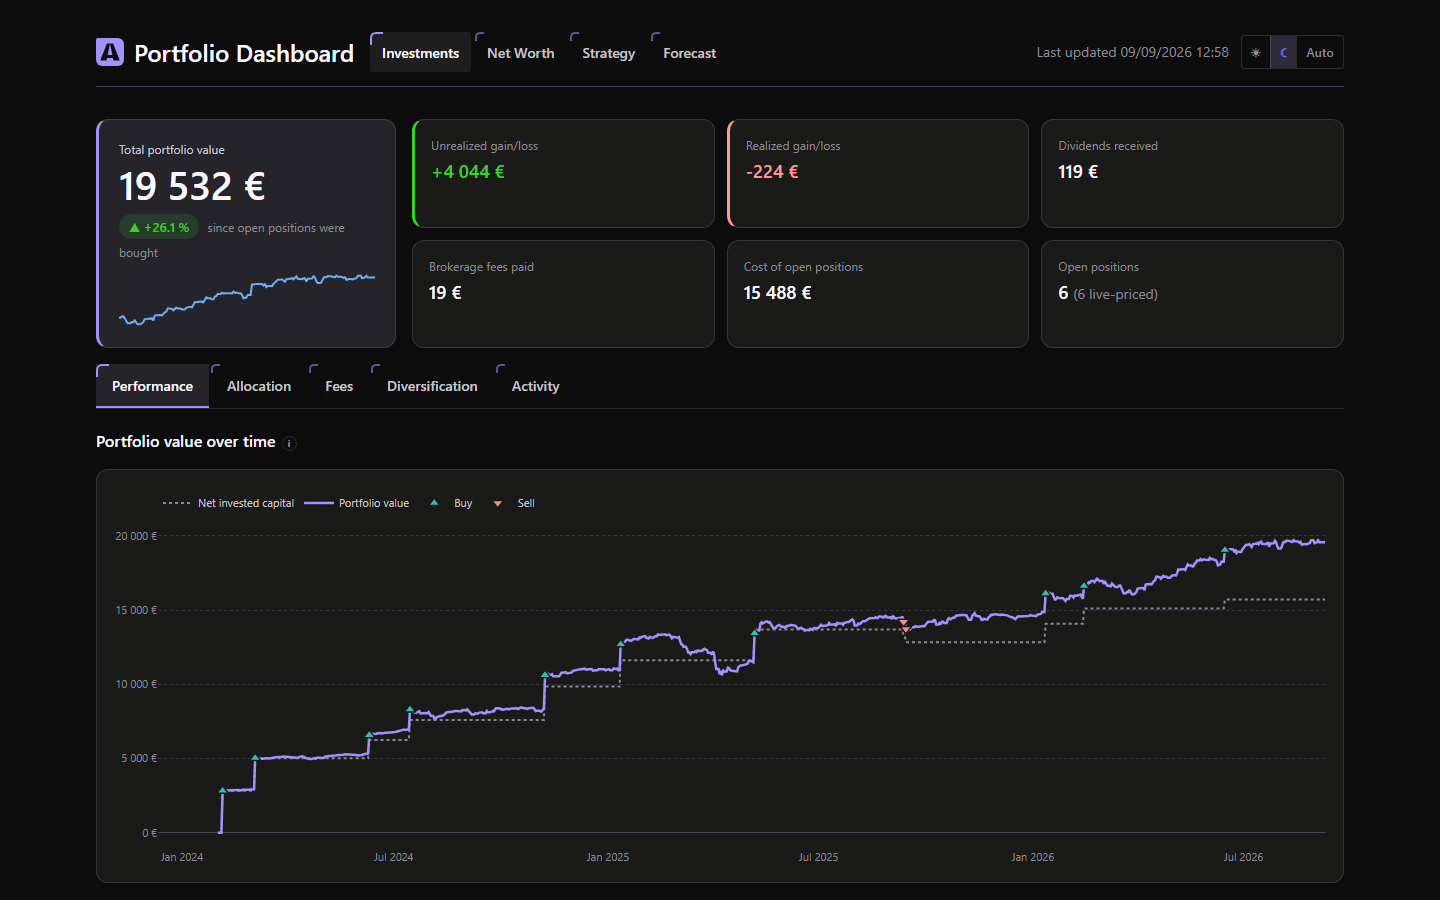
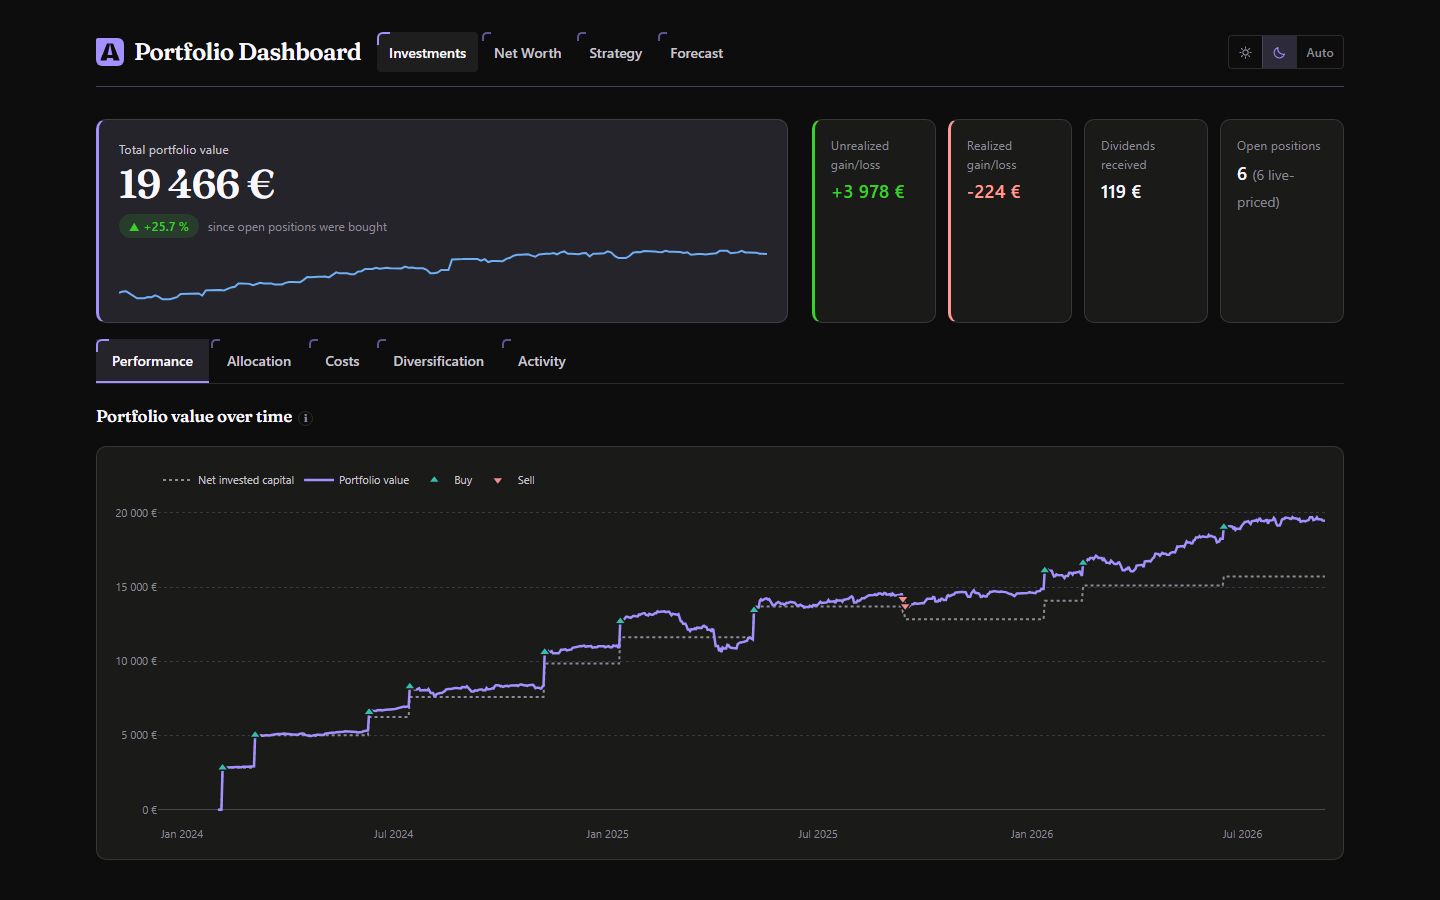
Regenerate the screenshots, and say what the pages now do
The seven README images are rebuilt from the demo dataset: the URLs, the
tab names, the serif, the wider charts and the new footer all show.

Two lines of the feature list had gone stale. Investments now names the
cost of ownership rather than "annual management fees", since the Costs
tab holds both the brokerage fees already paid and the funds' yearly
charge together. And Net Worth was still advertising a "comparison against
a target allocation with gaps highlighted" — it has no such thing, and
that comparison is the Strategy view's job.

diff --git a/README.md b/README.md
@@ -53,11 +53,13 @@ template, or the class will silently do nothing.
   mapped assets (`config/tickers.json`), with an explicit fallback to average
   purchase price for the rest — never an invented price.
 - **Investments view**: performance over time, asset ranking, allocation by
-  broker, geographic/sector diversification, annual management fees,
-  transaction/dividend activity log.
+  broker, geographic/sector diversification, cost of ownership (brokerage fees
+  already paid and the funds' annual charges, side by side), transaction and
+  dividend activity log.
 - **Net Worth view**: investments + savings accounts (regulated savings,
-  retirement plans, life insurance...), comparison against a target allocation
-  with gaps highlighted.
+  retirement plans, life insurance...) split by asset class and by institution,
+  over an account table that adds up to the total. Comparing that against a
+  target is the Strategy view's job.
 - **Strategy view**: a strategic allocation you define once, and everything that
   follows from it — drift against target, envelope capacity (including the PEA
   contribution ceiling), a trading sleeve capped at a share of net worth, and an
